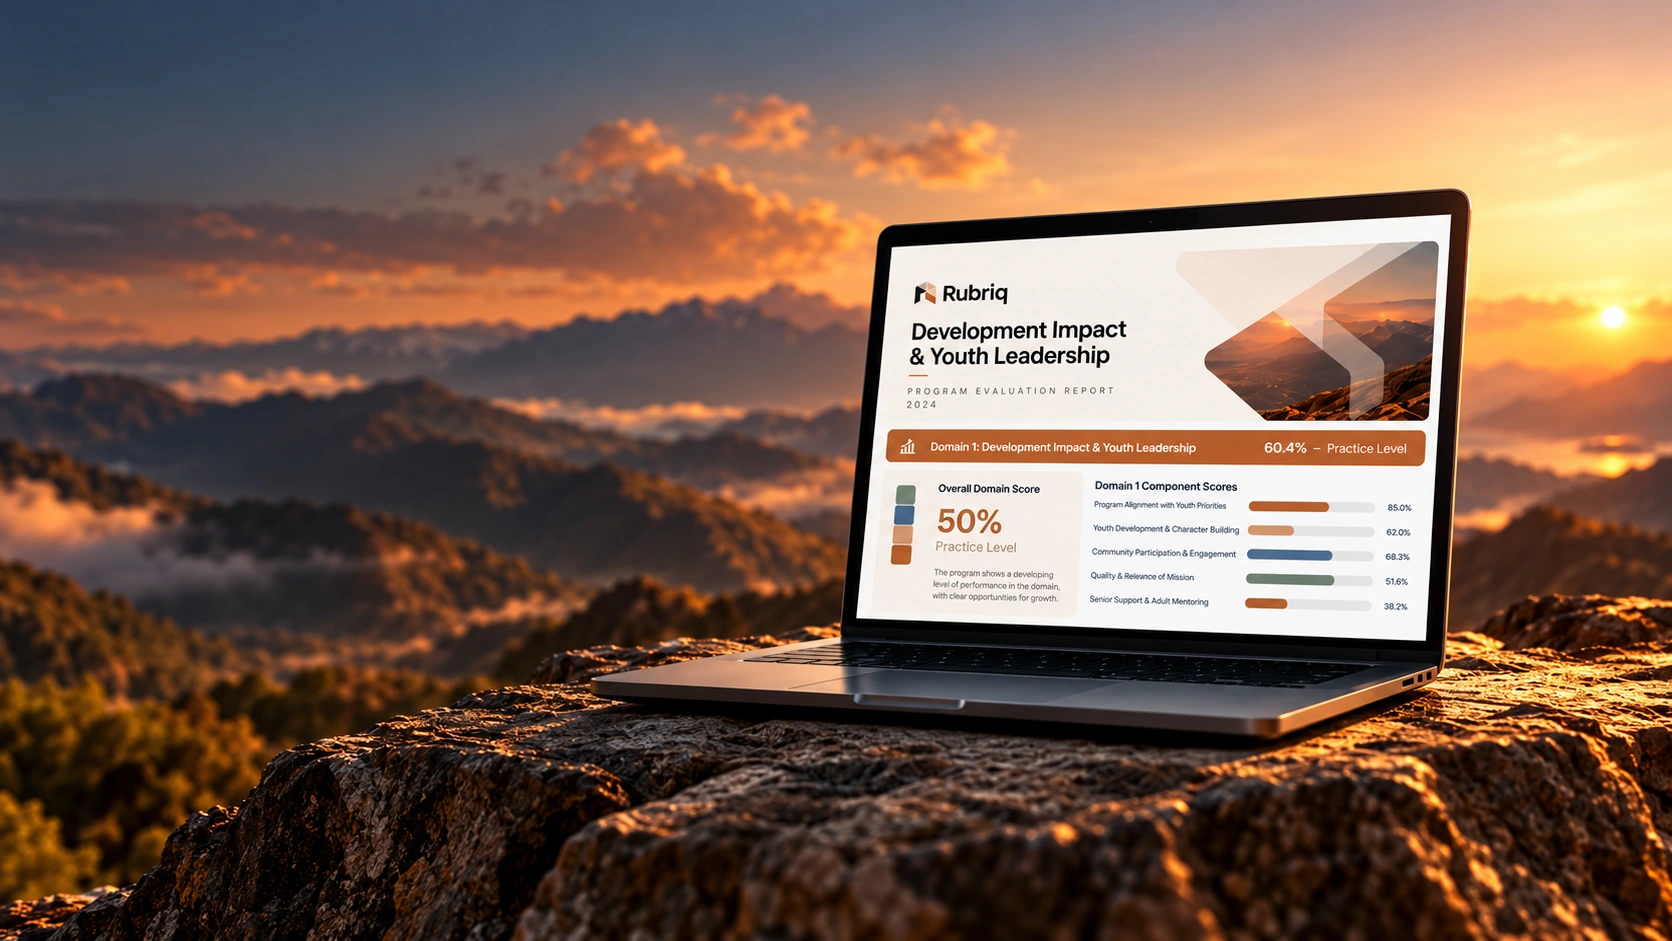
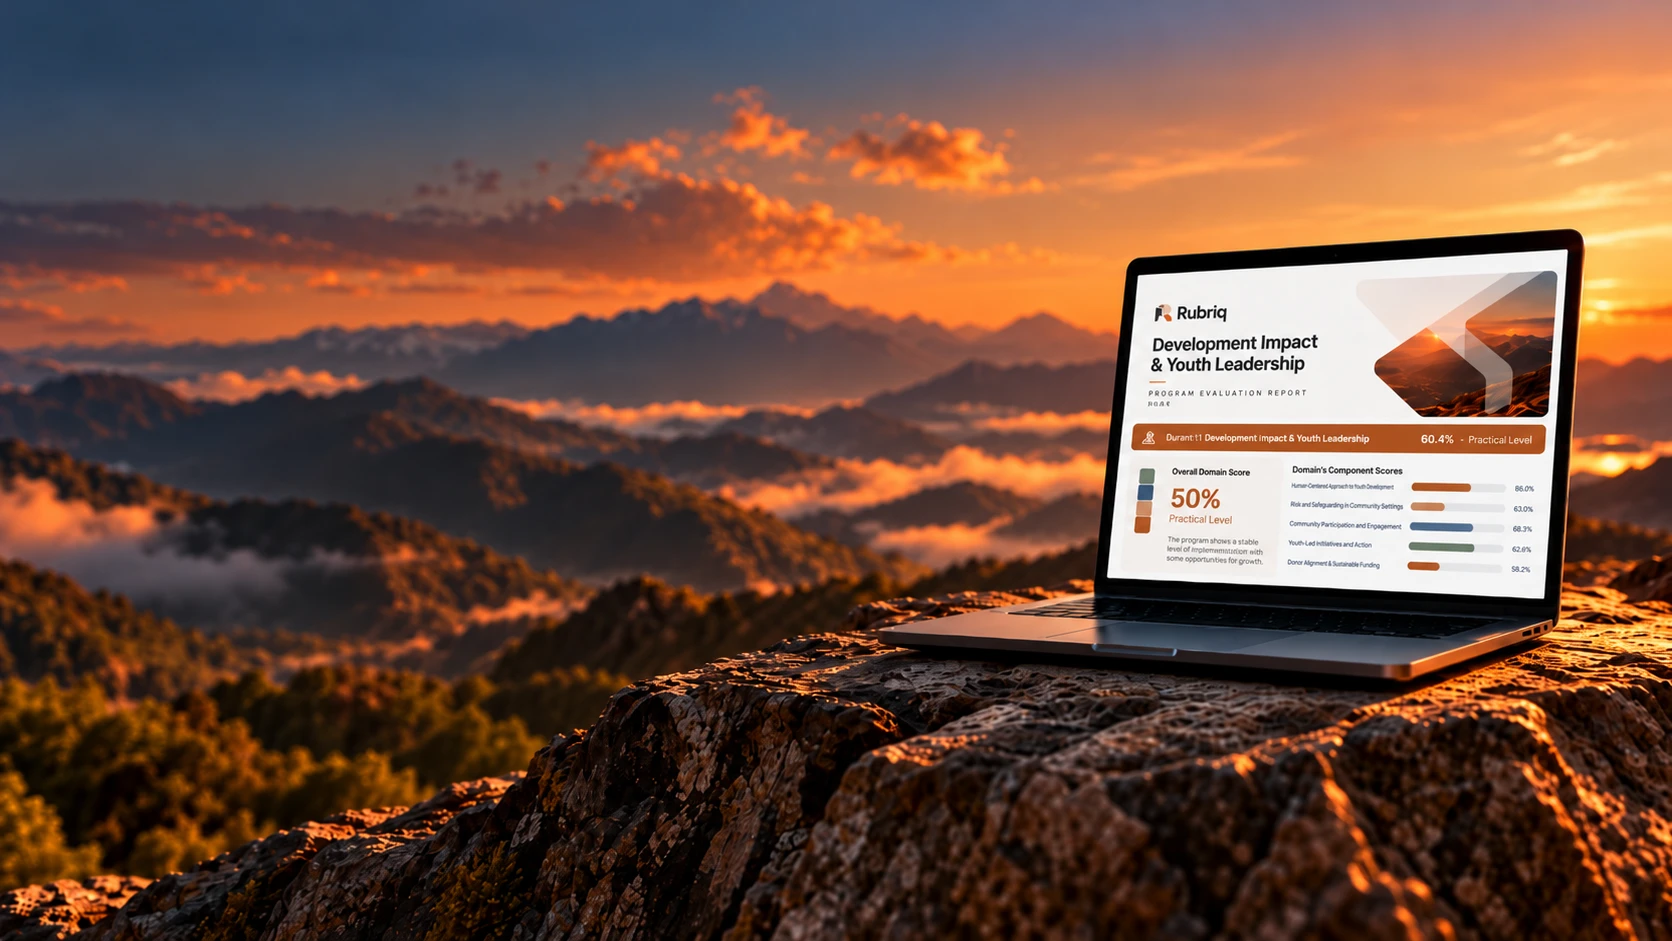
New hero photo with the laptop on the right, zoomed 10%
Swaps in the owner's new golden-hour photo (laptop far right, no sun),
zoomed in 10% on desktop and tablet. On phones the photo becomes a band
across the top focused on the laptop, fading into the dark background,
with the headline below so the text no longer covers the laptop.

diff --git a/site.css b/site.css
@@ -53,7 +53,7 @@
   .cta-btn.outline-dark svg{color:#c0643a}
   .cta-btn.outline-dark:hover{border-color:#c0643a}
   .hero{position:relative;isolation:isolate;overflow:hidden;display:flex;align-items:center;min-height:clamp(620px,100vh,940px);padding-block:120px 80px;background:#2a1d16}
-  .hero-bg{position:absolute;inset:0;z-index:-2;width:100%;height:100%;object-fit:cover;object-position:62% 50%}
+  .hero-bg{position:absolute;inset:0;z-index:-2;width:100%;height:100%;object-fit:cover;object-position:62% 50%;transform:scale(1.1);transform-origin:62% 50%}   /* zoomed in 10% (owner, Oct 8, 2026) */
   /* darkens the left so the white headline reads, and the top so the menu reads */
   .hero::before{content:"";position:absolute;inset:0;z-index:-1;background:linear-gradient(90deg,rgba(24,17,13,.78) 0%,rgba(24,17,13,.55) 30%,rgba(24,17,13,.12) 55%,rgba(24,17,13,0) 70%),linear-gradient(180deg,rgba(20,16,22,.45) 0%,rgba(20,16,22,0) 22%)}
   .hero-inner{width:100%}
@@ -79,7 +79,7 @@
   html[dir="rtl"] .hero-play svg{margin-inline-start:0;margin-inline-end:-5px}   /* a play symbol always points right */
   @media (max-width:960px){
     .hero{align-items:flex-end;min-height:clamp(560px,92vh,820px);padding-block:110px 56px}
-    .hero-bg{object-position:72% 50%}
+    .hero-bg{object-position:82% 50%}
     .hero::before,html[dir="rtl"] .hero::before{background:linear-gradient(0deg,rgba(24,17,13,.94) 0%,rgba(24,17,13,.8) 38%,rgba(24,17,13,.35) 62%,rgba(24,17,13,.05) 82%),linear-gradient(180deg,rgba(20,16,22,.55) 0%,rgba(20,16,22,0) 25%)}
     .hero-copy,html[dir="rtl"] .hero-copy{padding-bottom:0;transform:none}
     html[dir="rtl"] .hero-inner{direction:rtl}
@@ -89,6 +89,13 @@
   @media (max-width:520px){
     .hero-btn{padding:17px 30px}
     .hero-play{width:64px;height:64px}
+  }
+  /* phones: the photo becomes a band across the top (laptop visible), fading into the dark background, with the text below it */
+  @media (max-width:600px){
+    .hero{display:block;min-height:0;padding:0 0 52px}
+    .hero-bg{position:relative;inset:auto;display:block;height:auto;aspect-ratio:1/1;object-position:84% 50%;-webkit-mask-image:linear-gradient(180deg,#000 62%,transparent);mask-image:linear-gradient(180deg,#000 62%,transparent);transform:none}
+    .hero::before,html[dir="rtl"] .hero::before{background:linear-gradient(180deg,rgba(20,16,22,.5) 0%,rgba(20,16,22,0) 18%,rgba(42,29,22,0) 40%,#2a1d16 60%)}
+    .hero-inner{margin-top:-64px;position:relative}
   }
 
   /* home page: the menu sits transparent over the hero photo, then turns solid once you scroll or open the menu */

diff --git a/CLAUDE.md b/CLAUDE.md
@@ -107,7 +107,9 @@ Typography:
 ## Page structure, in order
 1. **Nav**: the shared site menu (see Stack). "Home" is marked as the current page.
 2. **Hero** (redesigned Oct 2, 2026 from the owner's "Clear Insights, Stronger Tomorrow" mockup, which they love):
-   - A full-bleed photo, `images/hero/hero-laptop.webp` (1672×941, supplied by the owner): a laptop showing the
+   - A full-bleed photo, `images/hero/hero-laptop.webp` (1672×941, supplied by the owner; replaced Oct 8, 2026 with a
+     version where the laptop sits far right and the sun is out of frame; the previous photo is in
+     `_design/mockups/old/`): a laptop showing the
      report on a mountain at sunset. Dark gradients on the left and top keep the text and menu readable.
    - Copy (layout from the "Rubriq Impact at Sunset" mockup; headline changed Oct 8, 2026 to match the new positioning):
      - A copper bar, then the Manrope headline "Your methodology. / Your own platform." with "Your own platform." in peach
@@ -120,7 +122,9 @@ Typography:
      after 40px of scroll or when the mobile menu opens.
    - In Arabic the text block stays on the left, because the laptop is on the right of the photo; only the text inside
      reads RTL. On wide screens the block shifts up to 60px left into the spare side margin, and 20px up.
-   - At 960px and below, the text sits at the bottom over a stronger dark fade (Arabic is right-aligned there).
+   - At 960px and below, the text sits at the bottom over a stronger dark fade (Arabic is right-aligned there). At 600px
+     and below the photo becomes a square band at the top, focused on the laptop, that fades into the dark
+     background, with the text underneath.
    - Replaced the earlier report-card hero, whose `.hero-visual` and `.hero-plan` code was removed.
 3. **Before / With Rubriq** (`#compare`, `.ba-*` classes, uses its own 1480px `.ba-wrap`): a centered header, then two
    panels with a round arrow between them.
